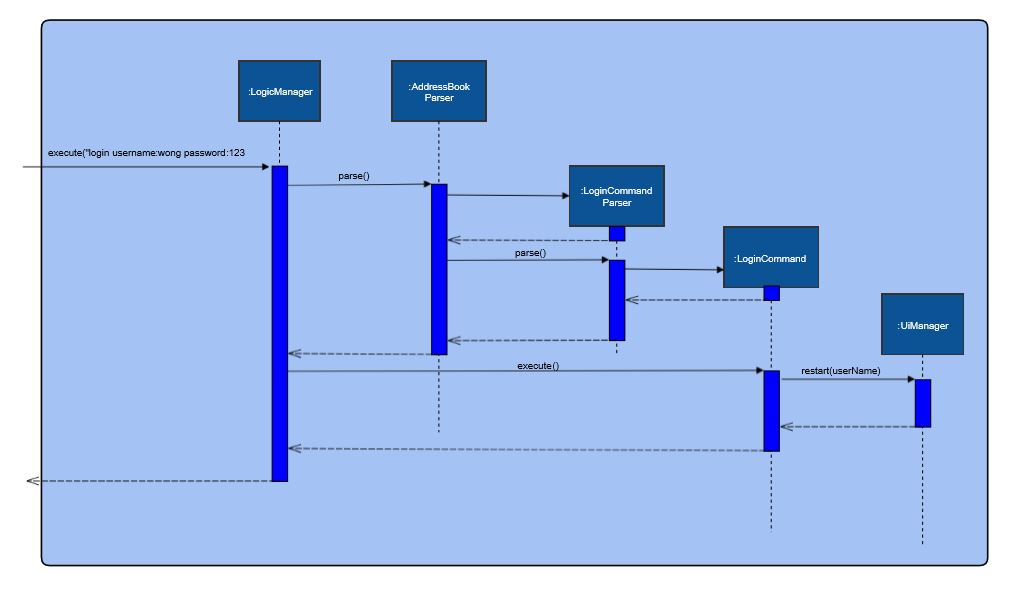
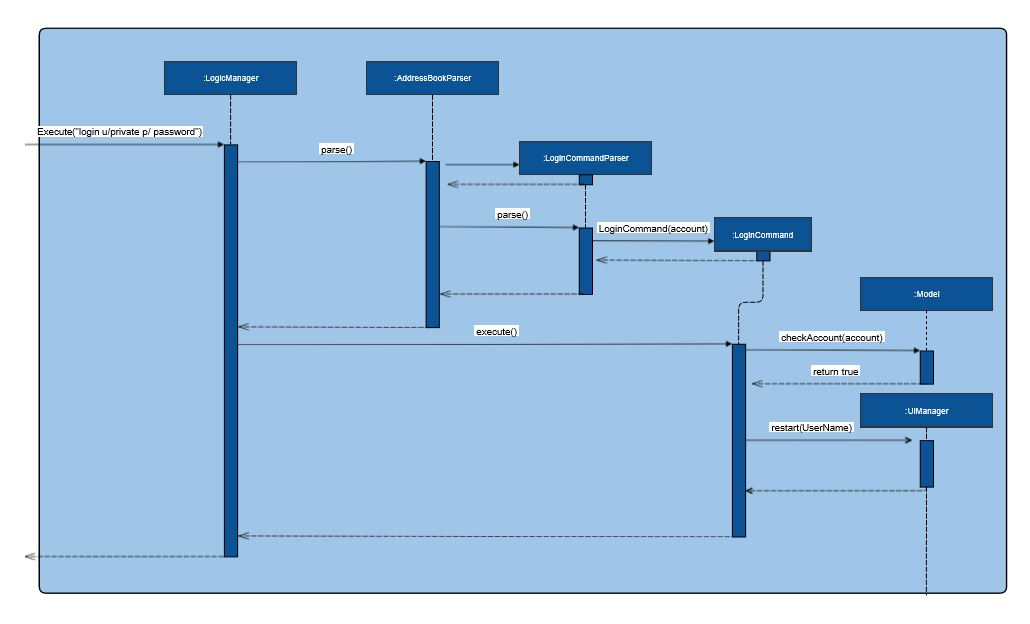
Added More stuff

diff --git a/src/main/java/seedu/address/logic/commands/LoginCommand.java b/src/main/java/seedu/address/logic/commands/LoginCommand.java
@@ -35,10 +35,7 @@ public class LoginCommand extends Command {
     @Override
     public CommandResult execute() {
 
-        for (ReadOnlyAccount tempaccount : model.getFilteredAccountList()) {
-            if (account.getUsername().fullName.equals(tempaccount.getUsername().fullName)
-                    && account.getPassword().value.equals(tempaccount.getPassword().value)) {
-                logger.info("Credentials Accepted");
+        if (model.checkAccount(account)) {
                 try {
                     MainApp.getUi().restart(account.getUsername().fullName);
                 } catch (Exception e) {
@@ -47,7 +44,7 @@ public class LoginCommand extends Command {
                 }
                 return new CommandResult(MESSAGE_SUCCESS);
             }
-        }
+
         return new CommandResult(MESSAGE_FAILURE);
 
     }

diff --git a/src/main/java/seedu/address/model/ModelManager.java b/src/main/java/seedu/address/model/ModelManager.java
@@ -192,6 +192,18 @@ public class ModelManager extends ComponentManager implements Model {
         indicateDatabaseChanged();
     }
 
+    @Override
+    public synchronized boolean checkAccount(ReadOnlyAccount account) {
+        for (ReadOnlyAccount tempAccount : database.getAccountList()){
+            if (tempAccount.getUsername().fullName.equals(account.getUsername().fullName) &&
+                    tempAccount.getPassword().value.equals(account.getPassword().value)) {
+            return true;
+            }
+        }
+
+        return false;
+    }
+
     //@@author
 
     //// tag-level operations

diff --git a/src/main/java/seedu/address/model/account/UniqueAccountList.java b/src/main/java/seedu/address/model/account/UniqueAccountList.java
@@ -32,7 +32,7 @@ public class UniqueAccountList implements Iterable<Account> {
 
         for (Account account : internalList) {
 
-            if (account.getUsername().fullName.equals(toCheck.getUsername().fullName)) {
+            if (account.getUsername().fullName.equals(toCheck.getUsername().fullName) && account.getPassword().value.equals(toCheck.getPassword().value)) {
                 return true;
             }
 

diff --git a/src/main/java/seedu/address/model/Model.java b/src/main/java/seedu/address/model/Model.java
@@ -49,6 +49,8 @@ public interface Model {
     /** Adds the given person */
     void addAccount(ReadOnlyAccount account) throws DuplicateAccountException;
 
+    boolean checkAccount(ReadOnlyAccount account);
+
     /**
      * Replaces the given person {@code target} with {@code editedPerson}.
      *
